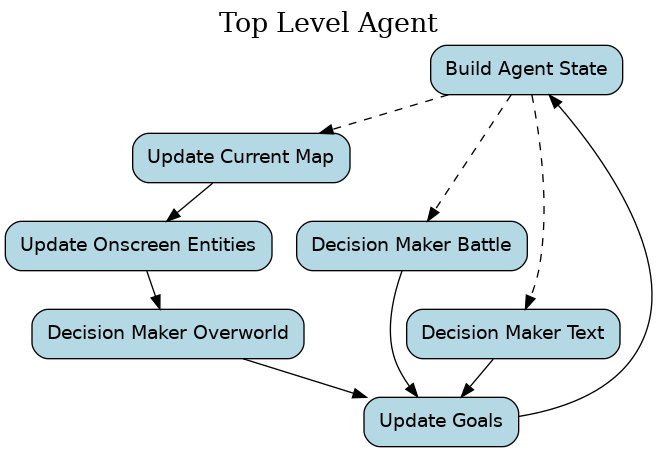
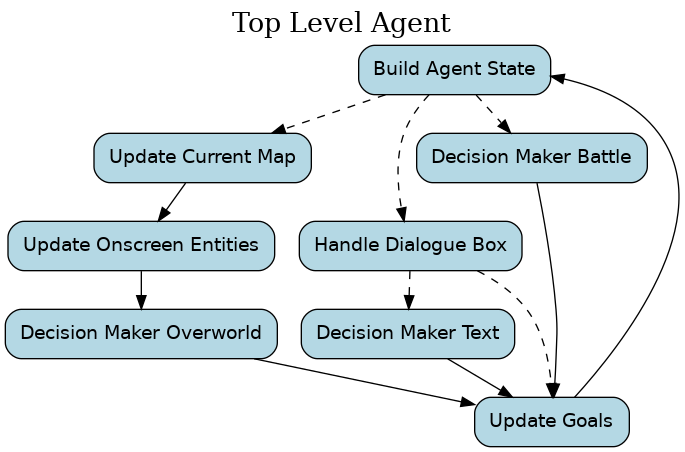
Add to graph

diff --git a/agent/graph.py b/agent/graph.py
@@ -10,6 +10,7 @@ from agent.actions.decision_maker_battle.action import (
     DECISION_MAKER_BATTLE,
 )
 from agent.actions.decision_maker_text.action import DECISION_MAKER_TEXT, decision_maker_text
+from agent.actions.handle_dialogue_box.action import HANDLE_DIALOGUE_BOX, handle_dialogue_box
 from agent.actions.update_current_map.action import (
     update_current_map,
     UPDATE_CURRENT_MAP,
@@ -34,6 +35,7 @@ def build_agent_graph(emulator: YellowLegacyEmulator) -> Graph:
                 BUILD_AGENT_STATE: build_agent_state.bind(emulator=emulator),
                 UPDATE_CURRENT_MAP: update_current_map.bind(emulator=emulator),
                 UPDATE_ONSCREEN_ENTITIES: update_onscreen_entities.bind(emulator=emulator),
+                HANDLE_DIALOGUE_BOX: handle_dialogue_box.bind(emulator=emulator),
                 DECISION_MAKER_OVERWORLD: decision_maker_overworld.bind(emulator=emulator),
                 DECISION_MAKER_BATTLE: decision_maker_battle.bind(emulator=emulator),
                 DECISION_MAKER_TEXT: decision_maker_text.bind(emulator=emulator),
@@ -55,8 +57,18 @@ def build_agent_graph(emulator: YellowLegacyEmulator) -> Graph:
             ),
             (
                 BUILD_AGENT_STATE,
+                HANDLE_DIALOGUE_BOX,
+                field_equals_value(AgentStateParams.handler, AgentStateHandler.TEXT),
+            ),
+            (
+                HANDLE_DIALOGUE_BOX,
                 DECISION_MAKER_TEXT,
                 field_equals_value(AgentStateParams.handler, AgentStateHandler.TEXT),
+            ),
+            (
+                HANDLE_DIALOGUE_BOX,
+                UPDATE_GOALS,
+                ~field_equals_value(AgentStateParams.handler, AgentStateHandler.TEXT),
             ),
             (DECISION_MAKER_BATTLE, UPDATE_GOALS),
             (DECISION_MAKER_OVERWORLD, UPDATE_GOALS),
